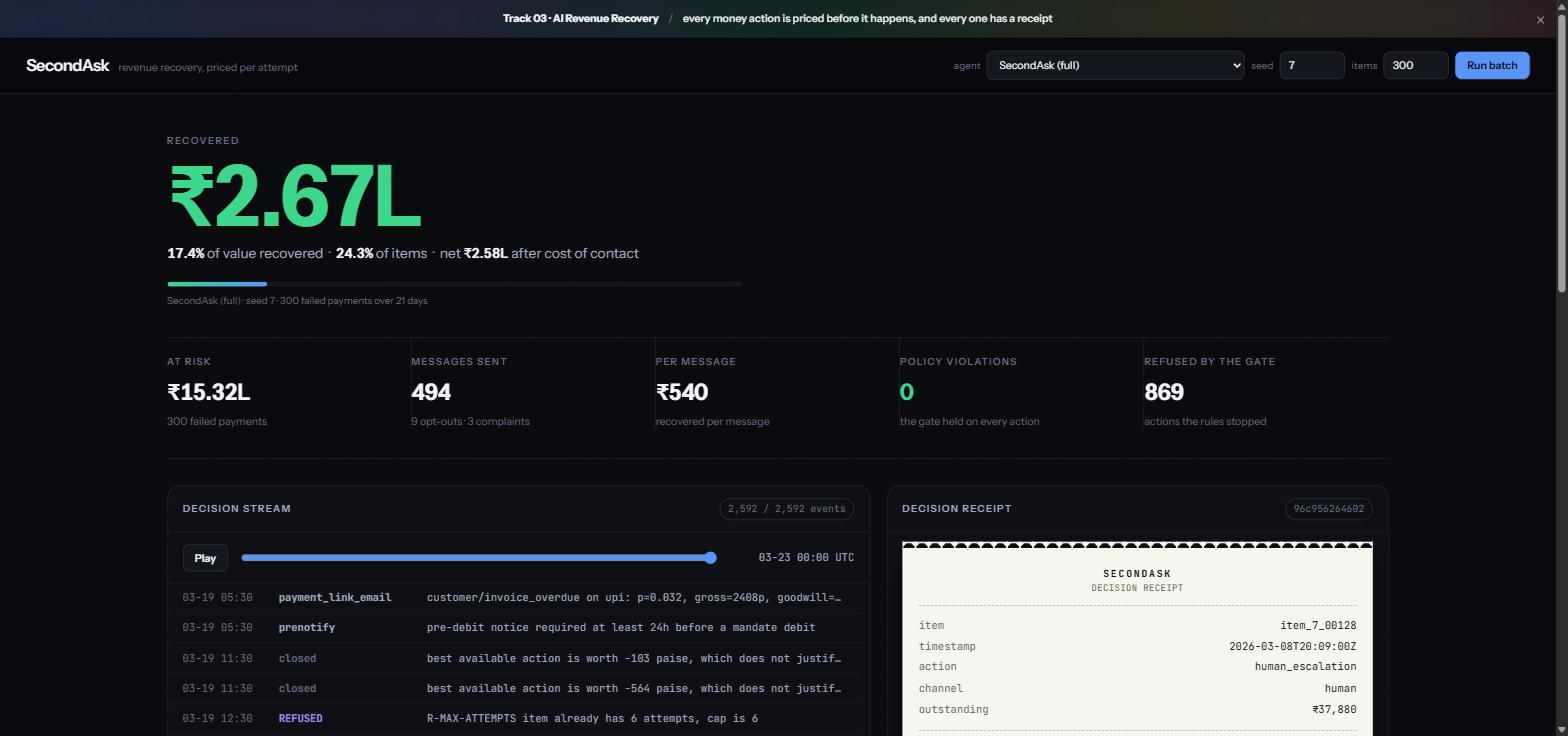
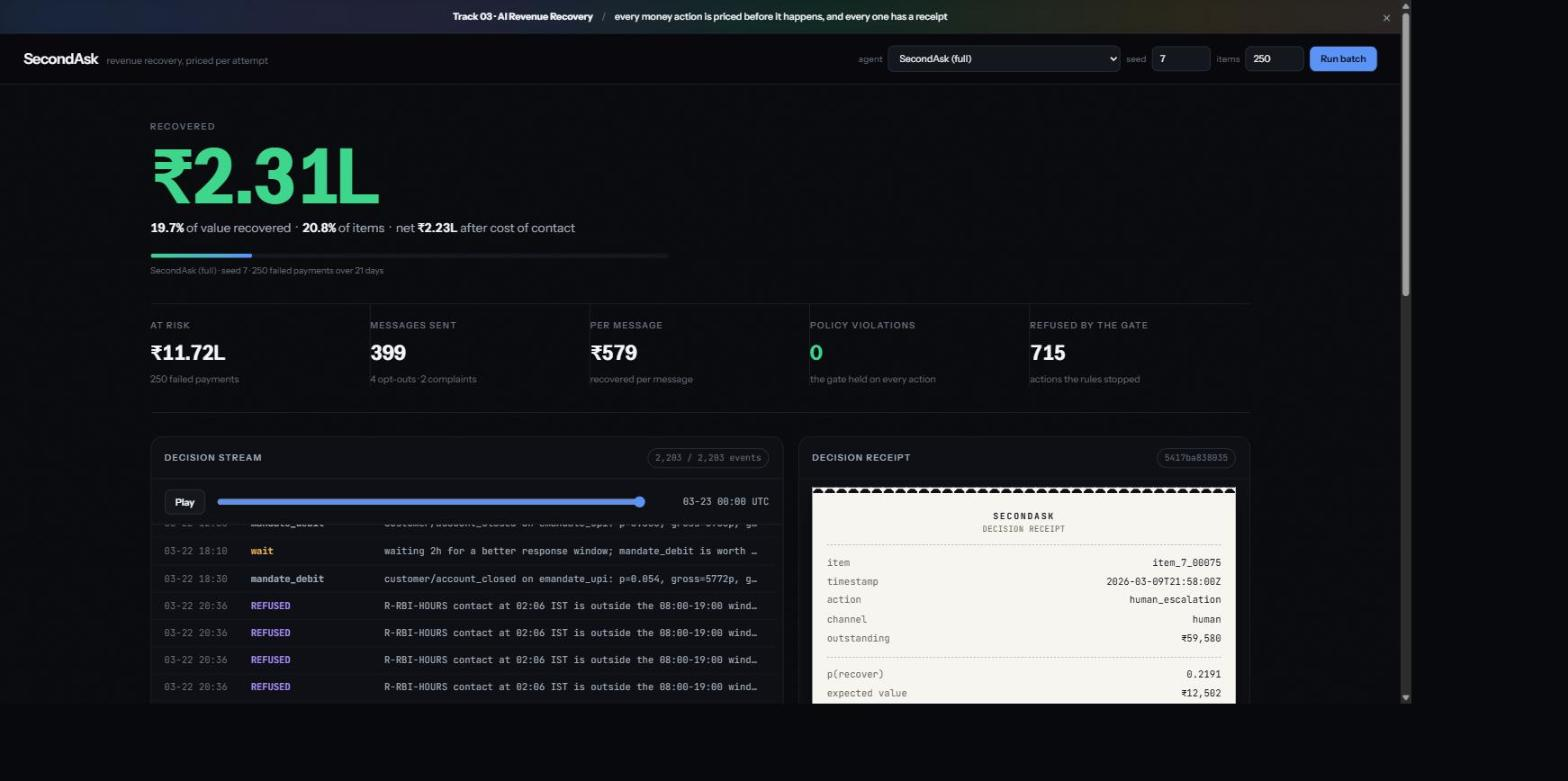
strip every em dash from the repo, refresh screenshot

diff --git a/secondask/server/static/index.html b/secondask/server/static/index.html
@@ -303,11 +303,11 @@ td.rule{font-family:var(--mono); color:var(--violet); font-size:var(--t-eyebrow)
     <div class="trackNote" id="trackNote">&nbsp;</div>
 
     <div class="stats">
-      <div class="stat"><div class="k">At risk</div><div class="v" id="atrisk">&mdash;</div><div class="s" id="atriskSub">&nbsp;</div></div>
-      <div class="stat"><div class="k">Messages sent</div><div class="v" id="msgs">&mdash;</div><div class="s" id="msgsSub">&nbsp;</div></div>
-      <div class="stat"><div class="k">Per message</div><div class="v" id="permsg">&mdash;</div><div class="s">recovered per message</div></div>
-      <div class="stat" id="violStat"><div class="k">Policy violations</div><div class="v" id="viol">&mdash;</div><div class="s" id="violSub">&nbsp;</div></div>
-      <div class="stat"><div class="k">Refused by the gate</div><div class="v" id="refused">&mdash;</div><div class="s">actions the rules stopped</div></div>
+      <div class="stat"><div class="k">At risk</div><div class="v" id="atrisk">--</div><div class="s" id="atriskSub">&nbsp;</div></div>
+      <div class="stat"><div class="k">Messages sent</div><div class="v" id="msgs">--</div><div class="s" id="msgsSub">&nbsp;</div></div>
+      <div class="stat"><div class="k">Per message</div><div class="v" id="permsg">--</div><div class="s">recovered per message</div></div>
+      <div class="stat" id="violStat"><div class="k">Policy violations</div><div class="v" id="viol">--</div><div class="s" id="violSub">&nbsp;</div></div>
+      <div class="stat"><div class="k">Refused by the gate</div><div class="v" id="refused">--</div><div class="s">actions the rules stopped</div></div>
     </div>
   </section>
 
@@ -320,7 +320,7 @@ td.rule{font-family:var(--mono); color:var(--violet); font-size:var(--t-eyebrow)
       <div class="transport">
         <button id="play">Play</button>
         <input type="range" id="scrub" min="0" max="0" value="0" aria-label="Timeline">
-        <span class="clock" id="clock">&mdash;</span>
+        <span class="clock" id="clock">--</span>
       </div>
       <div class="tape" id="tape"><div class="empty">No run yet.</div></div>
       <div class="note">Every line is read back from the hash-chained ledger, so this view
@@ -337,12 +337,12 @@ td.rule{font-family:var(--mono); color:var(--violet); font-size:var(--t-eyebrow)
 
       <div class="card">
         <header><h2>Recovery by method</h2></header>
-        <div class="body"><table id="methods"><tbody><tr><td class="empty">&mdash;</td></tr></tbody></table></div>
+        <div class="body"><table id="methods"><tbody><tr><td class="empty">--</td></tr></tbody></table></div>
       </div>
 
       <div class="card">
         <header><h2>What the gate refused</h2></header>
-        <div class="body"><table id="denials"><tbody><tr><td class="empty">&mdash;</td></tr></tbody></table></div>
+        <div class="body"><table id="denials"><tbody><tr><td class="empty">--</td></tr></tbody></table></div>
       </div>
     </div>
   </div>
@@ -381,7 +381,7 @@ function group(n){
 }
 const pct = (a,b) => b ? (100*a/b).toFixed(1) + "%" : "n/a";
 const esc = s => String(s == null ? "" : s).replace(/[<>&]/g, c => ({"<":"&lt;",">":"&gt;","&":"&amp;"}[c]));
-const clock = iso => iso ? iso.slice(5,16).replace("T"," ") : "—";
+const clock = iso => iso ? iso.slice(5,16).replace("T"," ") : "-";
 
 /* Count-up on the hero. Eased, and it respects reduced-motion. */
 function countTo(target, max){
@@ -532,7 +532,7 @@ function drawTape(){
   tape.scrollTop = tape.scrollHeight;
   $("feedCount").textContent = upto.length.toLocaleString() + " / " + RUN.events.length.toLocaleString() + " events";
   const last = upto[upto.length-1];
-  $("clock").textContent = last ? clock(last.t) + " UTC" : "—";
+  $("clock").textContent = last ? clock(last.t) + " UTC" : "--";
   if (last){
     const value = last.cumulative || 0;
     $("recovered").textContent = inr(value, true);

diff --git a/README.md b/README.md
@@ -15,7 +15,7 @@ outcome draws for identical actions.
 
 | agent | recovered | of value | of items | messages | per message | violations |
 |---|---:|---:|---:|---:|---:|---:|
-| do nothing | ₹0 | 0.0% | 0.0% | 0 | — | 0 |
+| do nothing | ₹0 | 0.0% | 0.0% | 0 | n/a | 0 |
 | fixed schedule `+1h/+24h/+72h` | ₹21.16L | 11.9% | 12.2% | 4,477 | ₹473 | 0 |
 | aggressive, gated | ₹20.17L | 11.4% | 15.8% | 6,332 | ₹318 | 0 |
 | LLM loop, gated | ₹28.87L | 16.3% | 20.7% | 6,173 | ₹468 | 0 |
@@ -117,7 +117,7 @@ came out rather than being quietly dropped.
 
 | ablation | recovered | delta | messages | violations | promises | disputes |
 |---|---:|---:|---:|---:|---:|---:|
-| SecondAsk | ₹31.78L | — | 5,275 | 0 | 216 | 24 |
+| SecondAsk | ₹31.78L | baseline | 5,275 | 0 | 216 | 24 |
 | remove the Constitution | ₹53.03L | +₹21.25L | 5,307 | **12,864** | 204 | 16 |
 | remove expected value pricing | ₹20.00L | **-₹11.79L** | 2,722 | 0 | 146 | 21 |
 | remove language understanding | ₹33.77L | +₹1.99L | 5,580 | 0 | **0** | **0** |
@@ -279,10 +279,10 @@ secondask/
 tests/            147 tests
 ```
 
-- [ARCHITECTURE.md](ARCHITECTURE.md) — how it fits together and why the model is
+- [ARCHITECTURE.md](ARCHITECTURE.md): how it fits together and why the model is
   the smallest part
-- [METHODOLOGY.md](METHODOLOGY.md) — how "money recovered" is made measurable
+- [METHODOLOGY.md](METHODOLOGY.md): how "money recovered" is made measurable
   without a production holdout
-- [COMPLIANCE.md](COMPLIANCE.md) — every rule mapped to the obligation it
+- [COMPLIANCE.md](COMPLIANCE.md): every rule mapped to the obligation it
   implements, and what is deliberately not implemented
-- [DEMO.md](DEMO.md) — the five-minute video running order
+- [DEMO.md](DEMO.md): the five-minute video running order

diff --git a/DEMO.md b/DEMO.md
@@ -8,7 +8,7 @@ payments fail. Open on the number.
 
 ---
 
-## 0:00 to 0:25 — the number, and the claim
+## 0:00 to 0:25 / the number, and the claim
 
 Screen: the dashboard, already run.
 
@@ -26,7 +26,7 @@ Point at **policy violations: 0**.
 
 ---
 
-## 0:25 to 1:10 — the one idea
+## 0:25 to 1:10 / the one idea
 
 Screen: two error signatures side by side.
 
@@ -47,7 +47,7 @@ Screen: two error signatures side by side.
 
 ---
 
-## 1:10 to 2:10 — the three layers
+## 1:10 to 2:10 / the three layers
 
 Screen: the architecture diagram.
 
@@ -74,7 +74,7 @@ Screen: the architecture diagram.
 
 ---
 
-## 2:10 to 3:00 — a receipt
+## 2:10 to 3:00 / a receipt
 
 Screen: click one decision in the stream.
 
@@ -92,7 +92,7 @@ Screen: click one decision in the stream.
 
 ---
 
-## 3:00 to 4:00 — break it on camera
+## 3:00 to 4:00 / break it on camera
 
 This is the section that matters most. Do all four, fast.
 
@@ -129,7 +129,7 @@ This is the section that matters most. Do all four, fast.
 
 ---
 
-## 4:00 to 4:40 — the ablations
+## 4:00 to 4:40 / the ablations
 
 Screen: the ablation table.
 
@@ -156,7 +156,7 @@ Screen: the ablation table.
 
 ---
 
-## 4:40 to 5:00 — what broke
+## 4:40 to 5:00 / what broke
 
 The form asks "what broke, and how you got out". Answer it in the video too, it
 is the question they say they read first.
